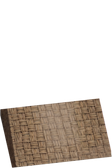
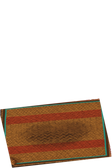
feat: starter's mat repainted, warped onto its scaffold's corners
Claude-Session: https://claude.ai/code/session_01NQk9Q1WZoZfDzoRioyXby1

diff --git a/docs/instructions/repaint-queue.md b/docs/instructions/repaint-queue.md
@@ -193,45 +193,6 @@ the shabti is `--mesh=art/masters/meshes/shabti.glb`. `starter-plain.png` is the
 `art/masters/surfaces/starter-floor.webp` scaled to 1024, the crop every `<tier>-plain.png` is. The
 tally board has no scaffold: it attaches its own master.
 
-### `starter/mat` — a dyed palm-fibre mat with ochre bands
-
-**Attach:**
-
-1. `~/tile-previews/mat-starter.png` — the scaffold
-2. `~/tile-previews/starter-plain.png` — the material reference
-
-```
-A wall-less product shot of a single object, painted in flat matte gouache, no background, on pure magenta #FF00FF. Portrait, two units wide by three tall, exactly as the reference. Do not re-compose it into a square. Paint over the reference image itself.
-
-The object: a flat woven MAT lying on the floor, a little askew, and nothing else. Its only shape is its
-outline; everything that says MAT is the weave painted on it.
-
-Palm fibre DYED, not pale straw: a body of dark honey #9a6a3c woven in a tight diagonal plait, crossed by
-two broad bands of red ochre #b8452c and a narrow border of deep umber #5e3a1e all the way round, with
-one thin line of turquoise #2a9d8f inside the border. Worn darker in the middle where people sat, frayed
-at one corner.
-
-IT STANDS ON A PALE FLOOR AND MUST READ DARK ON IT. The floor is pale limestone, #d8c8a8. The object as a
-whole is clearly DARKER and more colourful than that: nothing on it larger than a fingertip is lighter
-than terracotta #c0612f, and only the turquoise #2a9d8f may be, in small touches. Its base, its underside
-and every part nearest the floor are its darkest, deep umber #3a2a1c. Nothing on it is white, cream,
-bleached, pale straw or whitewash — a pale part vanishes into the floor.
-
-Keep every edge, every proportion and every silhouette exactly as in the reference image — do not move, resize, straighten, add, remove or restyle any part of it, and do not change the angle it stands at. Paint only material and wear.
-
-The shadow at its foot is part of the picture: paint it #3A2A1C, with no pink and no purple in it at all.
-
-No highlights, no gloss, no rim light, no ground plane, no reflections. Matte throughout, as if lit by one dull lamp. Merchant's storehouse: fired terracotta #c0612f and #7e3a1a, honey-brown timber #9a6a3c and #5e3a1e, red ochre paint #b8452c, turquoise faience #2a9d8f. Saturated and warm — colour that reads from across the room — and never as pale as the floor it stands on.
-```
-
-Then, once the return is in `~/Downloads`:
-
-```sh
-scaffold mat --spin=9 --shadow=0.5
-yarn import-tile art/masters/props/starter/mat.webp --tier=starter --name=mat --slot=prop \
-  --filter=smooth --mask="$OBJ" --seat="$SHADOW"
-```
-
 ### `starter/lamp` — a clay lamp on a dark wooden stool
 
 **Attach:**
